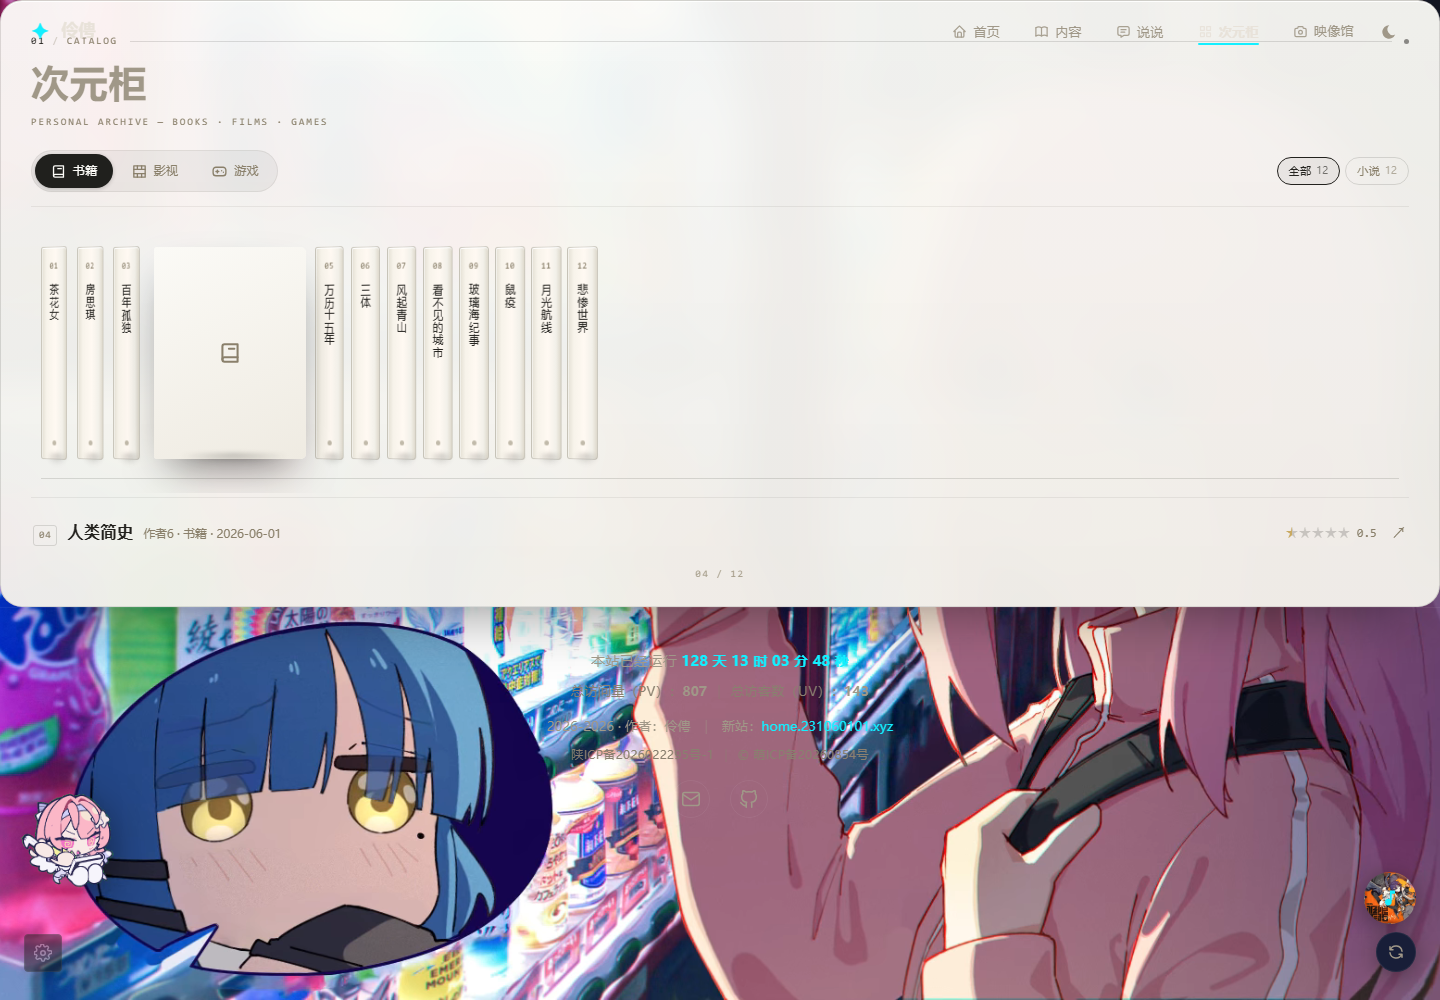
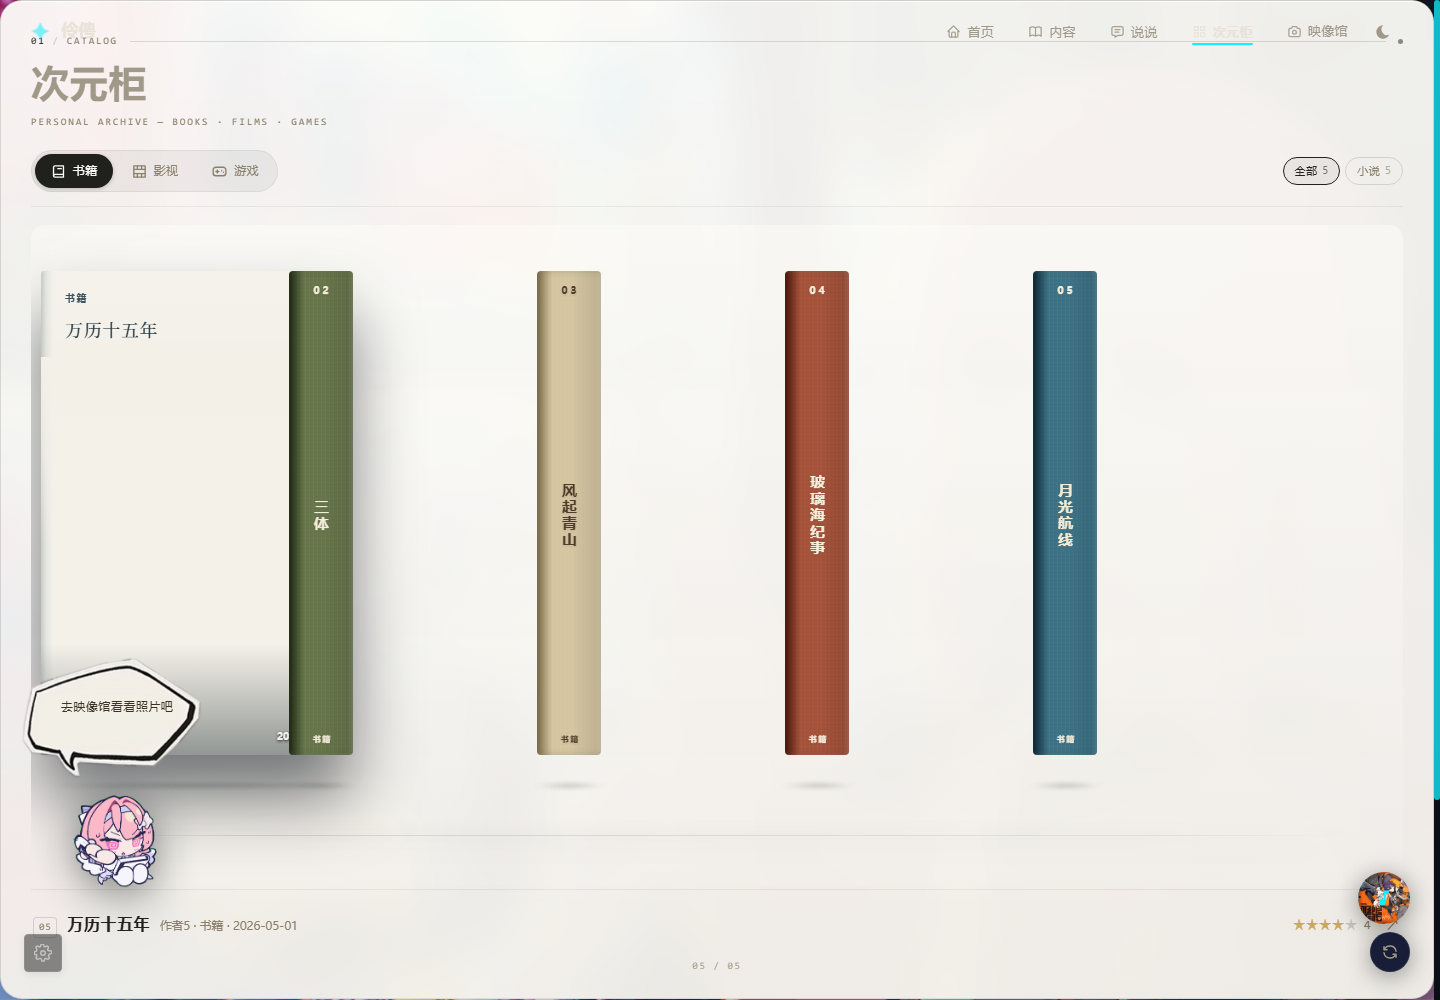
fix(dimension): 次元柜真正和映像馆记忆书架一致（封面恢复原版排版）
上一轮我说"搬了映像馆的书架"，但实际结果和映像馆差很远。这次先打开映像馆
（map.231060101.xyz → 进入映像馆 → 记忆书架）截图作为基准，再逐项对齐。

═══ 映像馆真实长什么样（截图确认）═══
· 视口 660px 高，一本"当前书"完整展示：308×484
· 封面是"排版式"的：左上 旅行手册 / 右上 01 / 大字省份名 / 照片 / 底部 N座城市 N张照片 + 旅行记忆
· 其余收成 64px 彩色布面书脊，竖排书名 + 册号 + 底部小字
· 左侧还有一栏信息面板

═══ 这次修掉的四个真问题 ═══
1) 【致命】选择器写错：我写的是 `.dim-rail .memory-shelf-viewport`（后代），
   但这两个类在同一个元素上 —— 整段 6 条规则一条都没生效，
   于是视口只有 280px 高、书 484px 被裁掉 204px，书名根本看不见。
   改成 `.dim-rail.memory-shelf-viewport`（同一元素）后视口 660px、书完整。
2) 视口仍是 `.dim-shelf{display:flex}` 的 flex 容器，轨道被压成和视口一样宽
   → scrollWidth=clientWidth、滚不动。补 display:block 后最大可滚 88px，滚轮能用。
3) 封面被我上一轮"改"错了：把映像馆的排版式封面删成了纯照片。
   用户说的"只改封面部分"指的是把省份换成书名，不是删掉封面设计。
   现在恢复成映像馆的 7 个元素（mark / index / title / subtitle / photo / meta / open）。
4) 漏了映像馆补救的那三条深墨色：
   #memPanel .memory-book-cover{color:#253943} 等 —— 参考项目把 color 从 .memory-book
   继承下来，标题会沿用浅色墨，在米色纸面上几乎看不见。补上后书名才显示得出来
   （实测 rgb(37,57,67)，亮度 54）。

═══ 没动的部分（用户明确要求）═══
游戏区完全没碰：仍然是原来的 .dim-card 渲染。
实测切到「游戏」：1 个 .dim-card、0 个 .memory-book、标题「空洞骑士」正常。

═══ 验证（真浏览器 11/11 通过）═══
  视口 1372×660、圆角 14px                                            ✅
  选中书 308×484、其余 64 宽（与映像馆同尺寸）                          ✅
  封面文字 = 书籍|万历十五年|作者5|2026-05-01，书名深墨 rgb(37,57,67)    ✅
  封面有照片层（.memory-book-photo）                                   ✅
  点第 3 本 → 只选中不打开；再点 → 打开且是同一本（风起青山）             ✅
  滚轮横向滑 88px                                                      ✅
  游戏区：1 个 .dim-card / 0 个 .memory-book / 标题「空洞骑士」          ✅
  线上健康检查 10/10，无 JS 异常
[…]

diff --git a/index.html b/index.html
@@ -1310,11 +1310,11 @@ main#main{position:relative;z-index:1}
 <style>
 /* ══════════ 次元柜 · 记忆书架（搬映像馆那套，只改封面与点击） ══════════ */
 .dim-rail{margin-top:18px}
-.dim-rail .memory-shelf-viewport{height:560px;overflow-x:auto;overflow-y:hidden;cursor:grab;
+.dim-rail.memory-shelf-viewport{display:block;height:660px;overflow-x:auto;overflow-y:hidden;cursor:grab;
   border-radius:14px;background:linear-gradient(180deg,rgba(252,251,247,.6),rgba(246,244,239,.2))}
-.dim-rail .memory-shelf-viewport.dragging{cursor:grabbing}
-.dim-rail .memory-shelf-viewport::-webkit-scrollbar{height:7px}
-.dim-rail .memory-shelf-viewport::-webkit-scrollbar-thumb{background:rgba(35,34,30,.22);border-radius:4px}
+.dim-rail.memory-shelf-viewport.dragging{cursor:grabbing}
+.dim-rail.memory-shelf-viewport::-webkit-scrollbar{height:7px}
+.dim-rail.memory-shelf-viewport::-webkit-scrollbar-thumb{background:rgba(35,34,30,.22);border-radius:4px}
 .dim-rail .memory-shelf-track{position:relative;height:100%}
 .dim-rail .memory-shelf-floor{position:absolute;left:0;right:0;bottom:52px;height:1px;
   background:linear-gradient(90deg,transparent,rgba(35,34,30,.22) 8%,rgba(35,34,30,.13) 92%,transparent);
@@ -1338,21 +1338,24 @@ main#main{position:relative;z-index:1}
 .dim-rail .memory-book:not(.active) .memory-book-spine-copy i{font-size:8px;letter-spacing:.2em}
 .dim-rail .memory-book:not(.active) .memory-book-cover,
 .dim-rail .memory-book:not(.active) .memory-book-cover-inside{opacity:0;pointer-events:none}
-/* ★ 封面改动①：整张照片铺满，不要上下黑边、不要编号与文字 */
-.dim-rail .memory-book-cover{padding:0!important;display:block!important;overflow:hidden!important;
-  background:#EFEBE2!important;color:#23221E}
-.dim-rail .memory-book-cover::before,.dim-rail .memory-book-cover::after{display:none!important}
-.dim-rail .mbc-photo{position:absolute;inset:0;display:block;background:#EFEBE2 center/cover no-repeat}
-.dim-rail .mbc-photo.is-empty{display:flex;align-items:center;justify-content:center;color:#A79F8C}
-/* ★ 封面改动②：封内页用米色纸 + 竖排书名 */
-.dim-rail .memory-book-cover-inside{background:linear-gradient(90deg,#E4DBCD,#F8F3E9 10%,#F3EEE4 92%,#D8CDBD)}
-.dim-rail .mbci-inner{position:absolute;inset:0;display:flex;flex-direction:column;align-items:center;justify-content:center;gap:10px;padding:22px 16px}
-.dim-rail .mbci-inner b{writing-mode:vertical-rl;text-orientation:mixed;font-size:1rem;font-weight:600;color:#23221E;letter-spacing:.08em}
-.dim-rail .mbci-inner i{font-style:normal;font-family:ui-monospace,monospace;font-size:.6rem;letter-spacing:.14em;color:#8A806B}
+/* ★ 封面：恢复映像馆原版排版（旅行手册 / 大字标题 / 照片 / 底部元信息），只把数据换成次元柜的。
+   ★ 必须补这三条：参考项目里 .memory-book-cover 只设了 --book-ink 变量，
+     color 却是在 .memory-book 上继承的，结果标题会沿用浅色墨，在米色纸面上几乎看不见。
+     映像馆也是这样补救的，这里照抄。 */
+.dim-rail .memory-book-cover{color:#253943}
+.dim-rail .memory-book-title{color:#253943}
+.dim-rail .memory-book-index{color:#3d525c}
+.dim-rail .memory-book-spine-copy{color:var(--book-ink,#f3ecd7)}
+/* ★ 尺寸对齐映像馆：选中 308×484，其余收成 64 宽的书脊 */
+.dim-rail .memory-book{width:308px;height:484px;bottom:96px}
+.dim-rail .memory-book:not(.active){width:64px}
 /* ★ 点击改动：翻开后由详情弹窗接管，这里只保留抽出+翻开的动画观感 */
-.dim-rail .memory-shelf-viewport.opening .memory-book:not(.opening){opacity:.35;transition:opacity .3s}
+.dim-rail.memory-shelf-viewport.opening .memory-book:not(.opening){opacity:.35;transition:opacity .3s}
+/* 书架底部的提示行（映像馆也有一条） */
+.dim-rail-hint{position:absolute;right:16px;bottom:10px;font-size:.68em;color:#A79F8C;pointer-events:none;letter-spacing:.04em}
 @media (max-width:760px){
-  .dim-rail .memory-shelf-viewport{height:430px}
+  .dim-rail.memory-shelf-viewport{height:460px}
+  .dim-rail .memory-book{width:196px;height:309px;bottom:68px}
   .dim-rail .memory-book:not(.active){width:52px}
 }
 @media (prefers-reduced-motion: reduce){
@@ -1536,7 +1539,7 @@ main#main{position:relative;z-index:1}
 const API_URL='https://home.xiaoaijiang.cloud/api';
 // 构建标记：显示在页脚，用来一眼确认"浏览器里这份是不是最新版"
 // 每次部署新功能时改这里（日期 + 一句话）
-const BUILD='2026-10-23 · 次元柜换成映像馆的记忆书架';
+const BUILD='2026-10-23 · 次元柜 = 映像馆记忆书架（原版封面）';
 // 评论图标（内联 SVG）：原来用的是 💬 emoji，各平台字形不一致、也无法跟随文字颜色，
 // 换成与全站其它图标同样式的描边对话气泡，统一由这里引用。
 const ICON_COMMENT_SVG='<svg class="ic-cmt" viewBox="0 0 24 24" width="12" height="12" fill="none" stroke="currentColor" stroke-width="2" stroke-linecap="round" stroke-linejoin="round" aria-hidden="true"><path d="M20 11.5a7.5 7.5 0 0 1 -10.9 6.7L4 19.5l1.4 -4.2A7.5 7.5 0 1 1 20 11.5z"/></svg>';
@@ -4838,10 +4841,26 @@ function bookCard(it,idx,pos){
         '<span class="memory-book-edge-bottom" aria-hidden="true"></span>'+
         '<span class="memory-book-spine-face" aria-hidden="true"><span class="memory-book-spine-copy">'+
           '<small>'+no+'</small><b>'+escHtml(title)+'</b><i>'+escHtml(kindLabel)+'</i></span></span>'+
-        '<span class="memory-book-cover-inside" aria-hidden="true"><span class="mbci-inner">'+
-          '<b>'+escHtml(title)+'</b>'+(creator?'<i>'+escHtml(creator)+'</i>':'')+
-        '</span></span>'+
-        '<span class="memory-book-cover">'+photo+'</span>'+
+        '<span class="memory-book-cover-inside" aria-hidden="true">'+
+          '<span class="memory-book-opening-photo"'+(cover?' style="background-image:url(\''+escHtml(cover)+'\')"':'')+'></span>'+
+          '<span class="memory-book-opening-summary">'+
+            '<small>次元柜档案</small>'+
+            '<strong>'+escHtml(title)+'</strong>'+
+            '<span>'+escHtml(creator||kindLabel)+'</span>'+
+            '<span class="memory-book-opening-totals">'+escHtml(kindLabel)+'　'+(review?'已写简介':'暂无简介')+'</span>'+
+          '</span>'+
+        '</span>'+
+        // 封面：结构照抄映像馆的 7 个元素，只把数据换成次元柜的
+        //   index=分类名  title=书名  photo=封面图  meta=作者/日期
+        '<span class="memory-book-cover">'+
+          '<span class="memory-book-mark" aria-hidden="true"></span>'+
+          '<span class="memory-book-index">'+escHtml(kindLabel)+'</span>'+
+          '<strong class="memory-book-title'+(title.length>7?' extra-long':title.length>4?' long':'')+'">'+escHtml(title)+'</strong>'+
+          '<span class="memory-book-subtitle">'+escHtml(sub||creator||'私人档案')+'</span>'+
+          '<span class="memory-book-photo"'+(cover?' style="background-image:url(\''+escHtml(cover)+'\')"':'')+'></span>'+
+          '<span class="memory-book-meta"><span>'+escHtml(creator||'未填作者')+'</span><span>'+escHtml(String(it.date||''))+'</span></span>'+
+          '<span class="memory-book-open">'+escHtml(sub||kindLabel)+'</span>'+
+        '</span>'+
       '</span>'+
     '</button>';
 }
